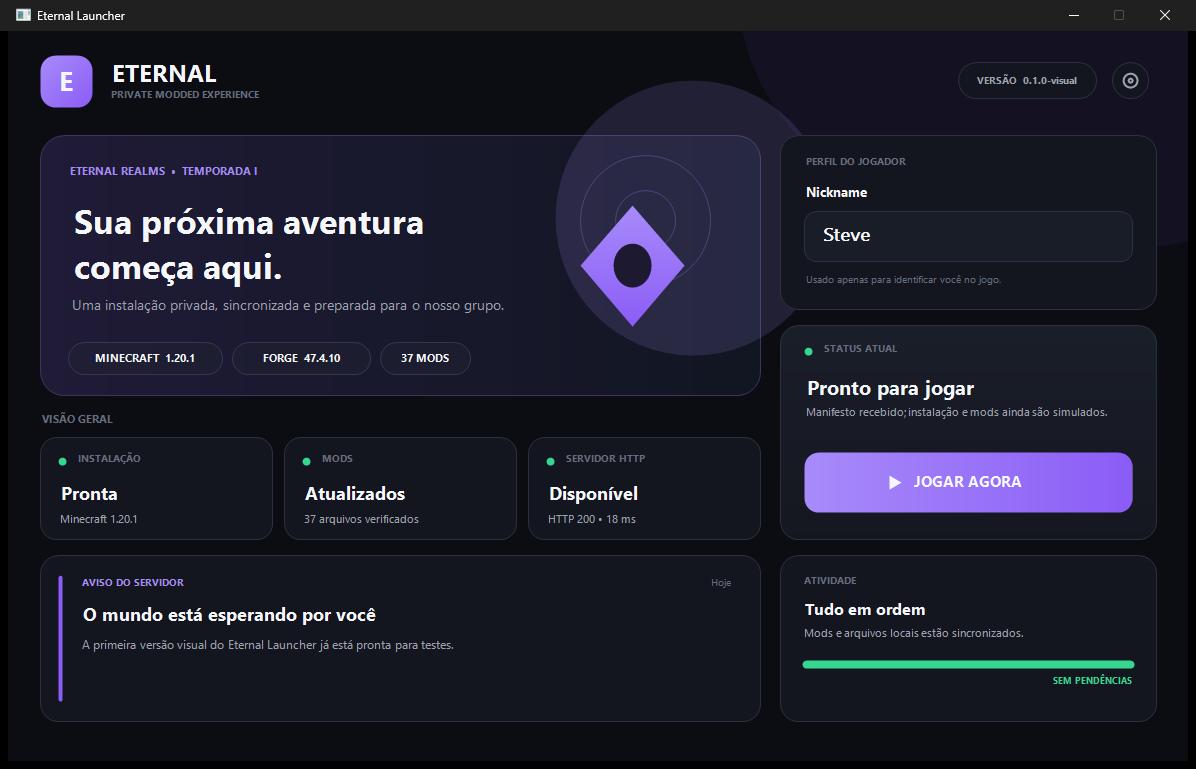
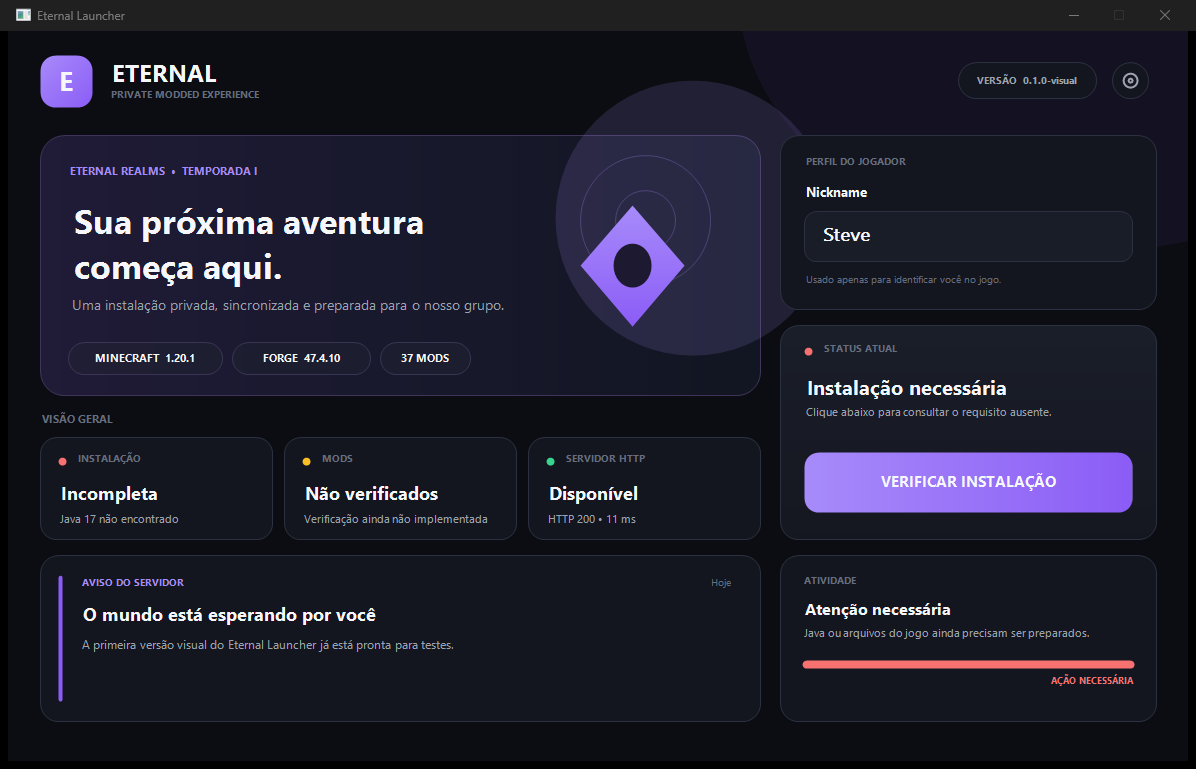
feat: exibe estado real da instalação

diff --git a/src/pages/MainPage.cpp b/src/pages/MainPage.cpp
@@ -207,8 +207,12 @@ void MainPage::paint()
     progress_.draw(graphics, ProgressBounds, viewState_.progressPercent,
                    viewState_.progressVisible
                        ? viewState_.operationMessage
-                       : L"Mods e arquivos locais estão sincronizados.",
-                   viewState_.progressVisible);
+                       : viewState_.operation == LauncherOperation::LaunchError
+                           ? L"Java ou arquivos do jogo ainda precisam ser preparados."
+                           : L"Nenhuma operação de arquivo está em andamento.",
+                   viewState_.progressVisible,
+                   viewState_.operation != LauncherOperation::LaunchError &&
+                       viewState_.operation != LauncherOperation::ServerUnavailable);
 
     Gdiplus::Graphics screen(deviceContext);
     screen.DrawImage(&frame, 0, 0);
@@ -270,6 +274,7 @@ void MainPage::handlePrimaryAction()
     {
         viewState_.headline = L"Informe seu nickname";
         viewState_.operationMessage = L"Precisamos saber como identificar você no jogo.";
+        viewState_.primaryActionLabel = L"TENTAR NOVAMENTE";
         InvalidateRect(window_, nullptr, FALSE);
         SetFocus(nicknameInput_);
         return;
@@ -278,6 +283,7 @@ void MainPage::handlePrimaryAction()
     viewState_.operation = LauncherOperation::LaunchingMinecraft;
     viewState_.headline = L"Iniciando Minecraft";
     viewState_.operationMessage = L"Validando Java, Forge e arquivos da instância...";
+    viewState_.primaryActionLabel = L"INICIANDO...";
     viewState_.playEnabled = false;
     InvalidateRect(window_, nullptr, FALSE);
     UpdateWindow(window_);
@@ -289,6 +295,7 @@ void MainPage::handlePrimaryAction()
         viewState_.headline = L"Minecraft em execução";
         viewState_.operationMessage =
             L"Forge 47.4.10 iniciado para " + std::wstring(nickname.data()) + L".";
+        viewState_.primaryActionLabel = L"JOGO EM EXECUÇÃO";
         viewState_.playEnabled = false;
         SetTimer(window_, LauncherConstants::GameProcessTimerId, 1000, nullptr);
     }
@@ -297,6 +304,7 @@ void MainPage::handlePrimaryAction()
         viewState_.operation = LauncherOperation::LaunchError;
         viewState_.headline = L"Não foi possível iniciar";
         viewState_.operationMessage = L"A instalação local precisa ser preparada ou corrigida.";
+        viewState_.primaryActionLabel = L"TENTAR NOVAMENTE";
         viewState_.playEnabled = true;
 
         MessageBox(window_, launchResult.message.c_str(), L"Eternal Launcher",
@@ -316,6 +324,7 @@ void MainPage::pollGameProcess()
     viewState_.operation = LauncherOperation::ReadyToPlay;
     viewState_.headline = L"Minecraft encerrado";
     viewState_.operationMessage = L"Você pode iniciar uma nova sessão quando quiser.";
+    viewState_.primaryActionLabel = L"JOGAR NOVAMENTE";
     viewState_.playEnabled = true;
     InvalidateRect(window_, nullptr, FALSE);
 }
@@ -361,6 +370,25 @@ void MainPage::applyFileServerResult(const FileServerManifestResponse& response)
         return;
     }
 
+    auto& installationCard = viewState_.statusCards[0];
+    const auto installation = minecraftLauncherService_->validateInstallation();
+    if (installation.success)
+    {
+        installationCard.value = L"Pronta";
+        installationCard.detail = L"Minecraft 1.20.1 + Forge 47.4.10";
+        installationCard.tone = StatusTone::Success;
+    }
+    else
+    {
+        installationCard.value = L"Incompleta";
+        installationCard.detail = installation.message.find(L"Java 17") != std::wstring::npos
+            ? L"Java 17 não encontrado"
+            : installation.message.find(L"nativas") != std::wstring::npos
+                ? L"Bibliotecas nativas ausentes"
+                : L"Arquivos do Minecraft/Forge ausentes";
+        installationCard.tone = StatusTone::Error;
+    }
+
     auto& serverCard = viewState_.statusCards[2];
     if (response.success)
     {
@@ -369,9 +397,18 @@ void MainPage::applyFileServerResult(const FileServerManifestResponse& response)
                             L" • " + std::to_wstring(response.elapsedMilliseconds) + L" ms";
         serverCard.tone = StatusTone::Success;
 
-        viewState_.operation = LauncherOperation::ReadyToPlay;
-        viewState_.headline = L"Pronto para jogar";
-        viewState_.operationMessage = L"Manifesto recebido; instalação e mods ainda são simulados.";
+        viewState_.operation = installation.success
+            ? LauncherOperation::ReadyToPlay
+            : LauncherOperation::LaunchError;
+        viewState_.headline = installation.success
+            ? L"Pronto para jogar"
+            : L"Instalação necessária";
+        viewState_.operationMessage = installation.success
+            ? L"Manifesto e instalação local foram validados."
+            : L"Clique abaixo para consultar o requisito ausente.";
+        viewState_.primaryActionLabel = installation.success
+            ? L"JOGAR AGORA"
+            : L"VERIFICAR INSTALAÇÃO";
         viewState_.playEnabled = true;
     }
     else
@@ -385,6 +422,7 @@ void MainPage::applyFileServerResult(const FileServerManifestResponse& response)
         viewState_.operation = LauncherOperation::ServerUnavailable;
         viewState_.headline = L"Servidor indisponível";
         viewState_.operationMessage = L"O manifesto HTTP não pôde ser carregado.";
+        viewState_.primaryActionLabel = L"SERVIDOR OFFLINE";
         viewState_.playEnabled = false;
     }
 

diff --git a/src/components/ProgressComponent.cpp b/src/components/ProgressComponent.cpp
@@ -7,7 +7,7 @@
 #include <string>
 
 void ProgressComponent::draw(Gdiplus::Graphics& graphics, const Gdiplus::RectF& bounds,
-                             int percent, std::wstring_view message, bool active) const
+                             int percent, std::wstring_view message, bool active, bool healthy) const
 {
     DrawingUtils::fillRoundedRectangle(graphics, bounds, 18.0F, Theme::Surface);
     DrawingUtils::drawRoundedRectangle(graphics, bounds, 18.0F, Theme::Border);
@@ -16,7 +16,9 @@ void ProgressComponent::draw(Gdiplus::Graphics& graphics, const Gdiplus::RectF& 
                            {bounds.X + 22.0F, bounds.Y + 18.0F, 160.0F, 18.0F},
                            10.0F, Gdiplus::FontStyleBold, Theme::TextMuted);
 
-    const std::wstring title = active ? L"Atualização em andamento" : L"Tudo em ordem";
+    const std::wstring title = active
+        ? L"Atualização em andamento"
+        : healthy ? L"Tudo em ordem" : L"Atenção necessária";
     DrawingUtils::drawText(graphics, title,
                            {bounds.X + 22.0F, bounds.Y + 43.0F, bounds.Width - 44.0F, 25.0F},
                            16.0F, Gdiplus::FontStyleBold, Theme::TextPrimary);
@@ -31,15 +33,16 @@ void ProgressComponent::draw(Gdiplus::Graphics& graphics, const Gdiplus::RectF& 
     const float fillWidth = active
         ? track.Width * static_cast<float>(clampedPercent) / 100.0F
         : track.Width;
-    const auto fillColor = active ? Theme::Accent : Theme::Success;
+    const auto fillColor = active ? Theme::Accent : healthy ? Theme::Success : Theme::Error;
     DrawingUtils::fillRoundedRectangle(graphics, {track.X, track.Y, fillWidth, track.Height},
                                        4.0F, fillColor);
 
     const std::wstring progressLabel = active
         ? std::to_wstring(clampedPercent) + L"%"
-        : L"SEM PENDÊNCIAS";
+        : healthy ? L"SEM PENDÊNCIAS" : L"AÇÃO NECESSÁRIA";
     DrawingUtils::drawText(graphics, progressLabel,
                            {bounds.X + 22.0F, bounds.Y + 119.0F, bounds.Width - 44.0F, 17.0F},
-                           9.0F, Gdiplus::FontStyleBold, active ? Theme::AccentLight : Theme::Success,
+                           9.0F, Gdiplus::FontStyleBold,
+                           active ? Theme::AccentLight : healthy ? Theme::Success : Theme::Error,
                            Gdiplus::StringAlignmentFar);
 }

diff --git a/src/mocks/MockLauncherData.cpp b/src/mocks/MockLauncherData.cpp
@@ -6,13 +6,14 @@ LauncherViewState MockLauncherData::createInitialState()
     state.operation = LauncherOperation::CheckingUpdates;
     state.headline = L"Conectando ao servidor";
     state.operationMessage = L"Buscando o manifesto no servidor HTTP de arquivos...";
+    state.primaryActionLabel = L"AGUARDE...";
     state.playEnabled = false;
 
-    // MOCK: instalação e mods continuam simulados. O terceiro cartão é substituído
-    // pelo resultado real do HttpFileService assim que a tela é aberta.
+    // MOCK: apenas o estado dos mods permanece simulado. Instalação e servidor
+    // são substituídos por verificações reais assim que a tela é aberta.
     state.statusCards = {
-        {L"INSTALAÇÃO", L"Pronta", L"Minecraft 1.20.1", StatusTone::Success},
-        {L"MODS", L"Atualizados", L"37 arquivos verificados", StatusTone::Success},
+        {L"INSTALAÇÃO", L"Verificando...", L"Java, Minecraft e Forge", StatusTone::Information},
+        {L"MODS", L"Não verificados", L"Verificação ainda não implementada", StatusTone::Warning},
         {L"SERVIDOR HTTP", L"Conectando...", L"Buscando manifesto real", StatusTone::Information},
     };
 

diff --git a/src/components/PlayPanelComponent.cpp b/src/components/PlayPanelComponent.cpp
@@ -38,18 +38,14 @@ void PlayPanelComponent::draw(Gdiplus::Graphics& graphics, const Gdiplus::RectF&
         button, startColor, endColor, Gdiplus::LinearGradientModeHorizontal);
     graphics.FillPath(&buttonBrush, buttonPath.get());
 
-    const std::wstring_view buttonLabel = state.playEnabled
+    const std::wstring_view buttonLabel = state.primaryActionLabel.empty()
         ? L"JOGAR AGORA"
-        : state.operation == LauncherOperation::ServerUnavailable
-            ? L"SERVIDOR OFFLINE"
-            : state.operation == LauncherOperation::MinecraftRunning
-                ? L"JOGO EM EXECUÇÃO"
-            : L"AGUARDE...";
+        : std::wstring_view(state.primaryActionLabel);
     DrawingUtils::drawText(graphics, buttonLabel, button, 15.0F, Gdiplus::FontStyleBold,
                            Theme::TextPrimary, Gdiplus::StringAlignmentCenter,
                            Gdiplus::StringAlignmentCenter);
 
-    if (state.playEnabled)
+    if (state.operation == LauncherOperation::ReadyToPlay)
     {
         // Triângulo simples reforça a ação primária sem depender de uma biblioteca de ícones.
         const float iconX = button.X + 90.0F;

diff --git a/src/types/LauncherState.h b/src/types/LauncherState.h
@@ -54,6 +54,7 @@ struct LauncherViewState
     LauncherOperation operation = LauncherOperation::Idle;
     std::wstring headline;
     std::wstring operationMessage;
+    std::wstring primaryActionLabel;
     int progressPercent = 0;
     bool progressVisible = false;
     bool playEnabled = true;

diff --git a/src/components/ProgressComponent.h b/src/components/ProgressComponent.h
@@ -9,5 +9,5 @@ class ProgressComponent
 {
 public:
     void draw(Gdiplus::Graphics& graphics, const Gdiplus::RectF& bounds,
-              int percent, std::wstring_view message, bool active) const;
+              int percent, std::wstring_view message, bool active, bool healthy) const;
 };
